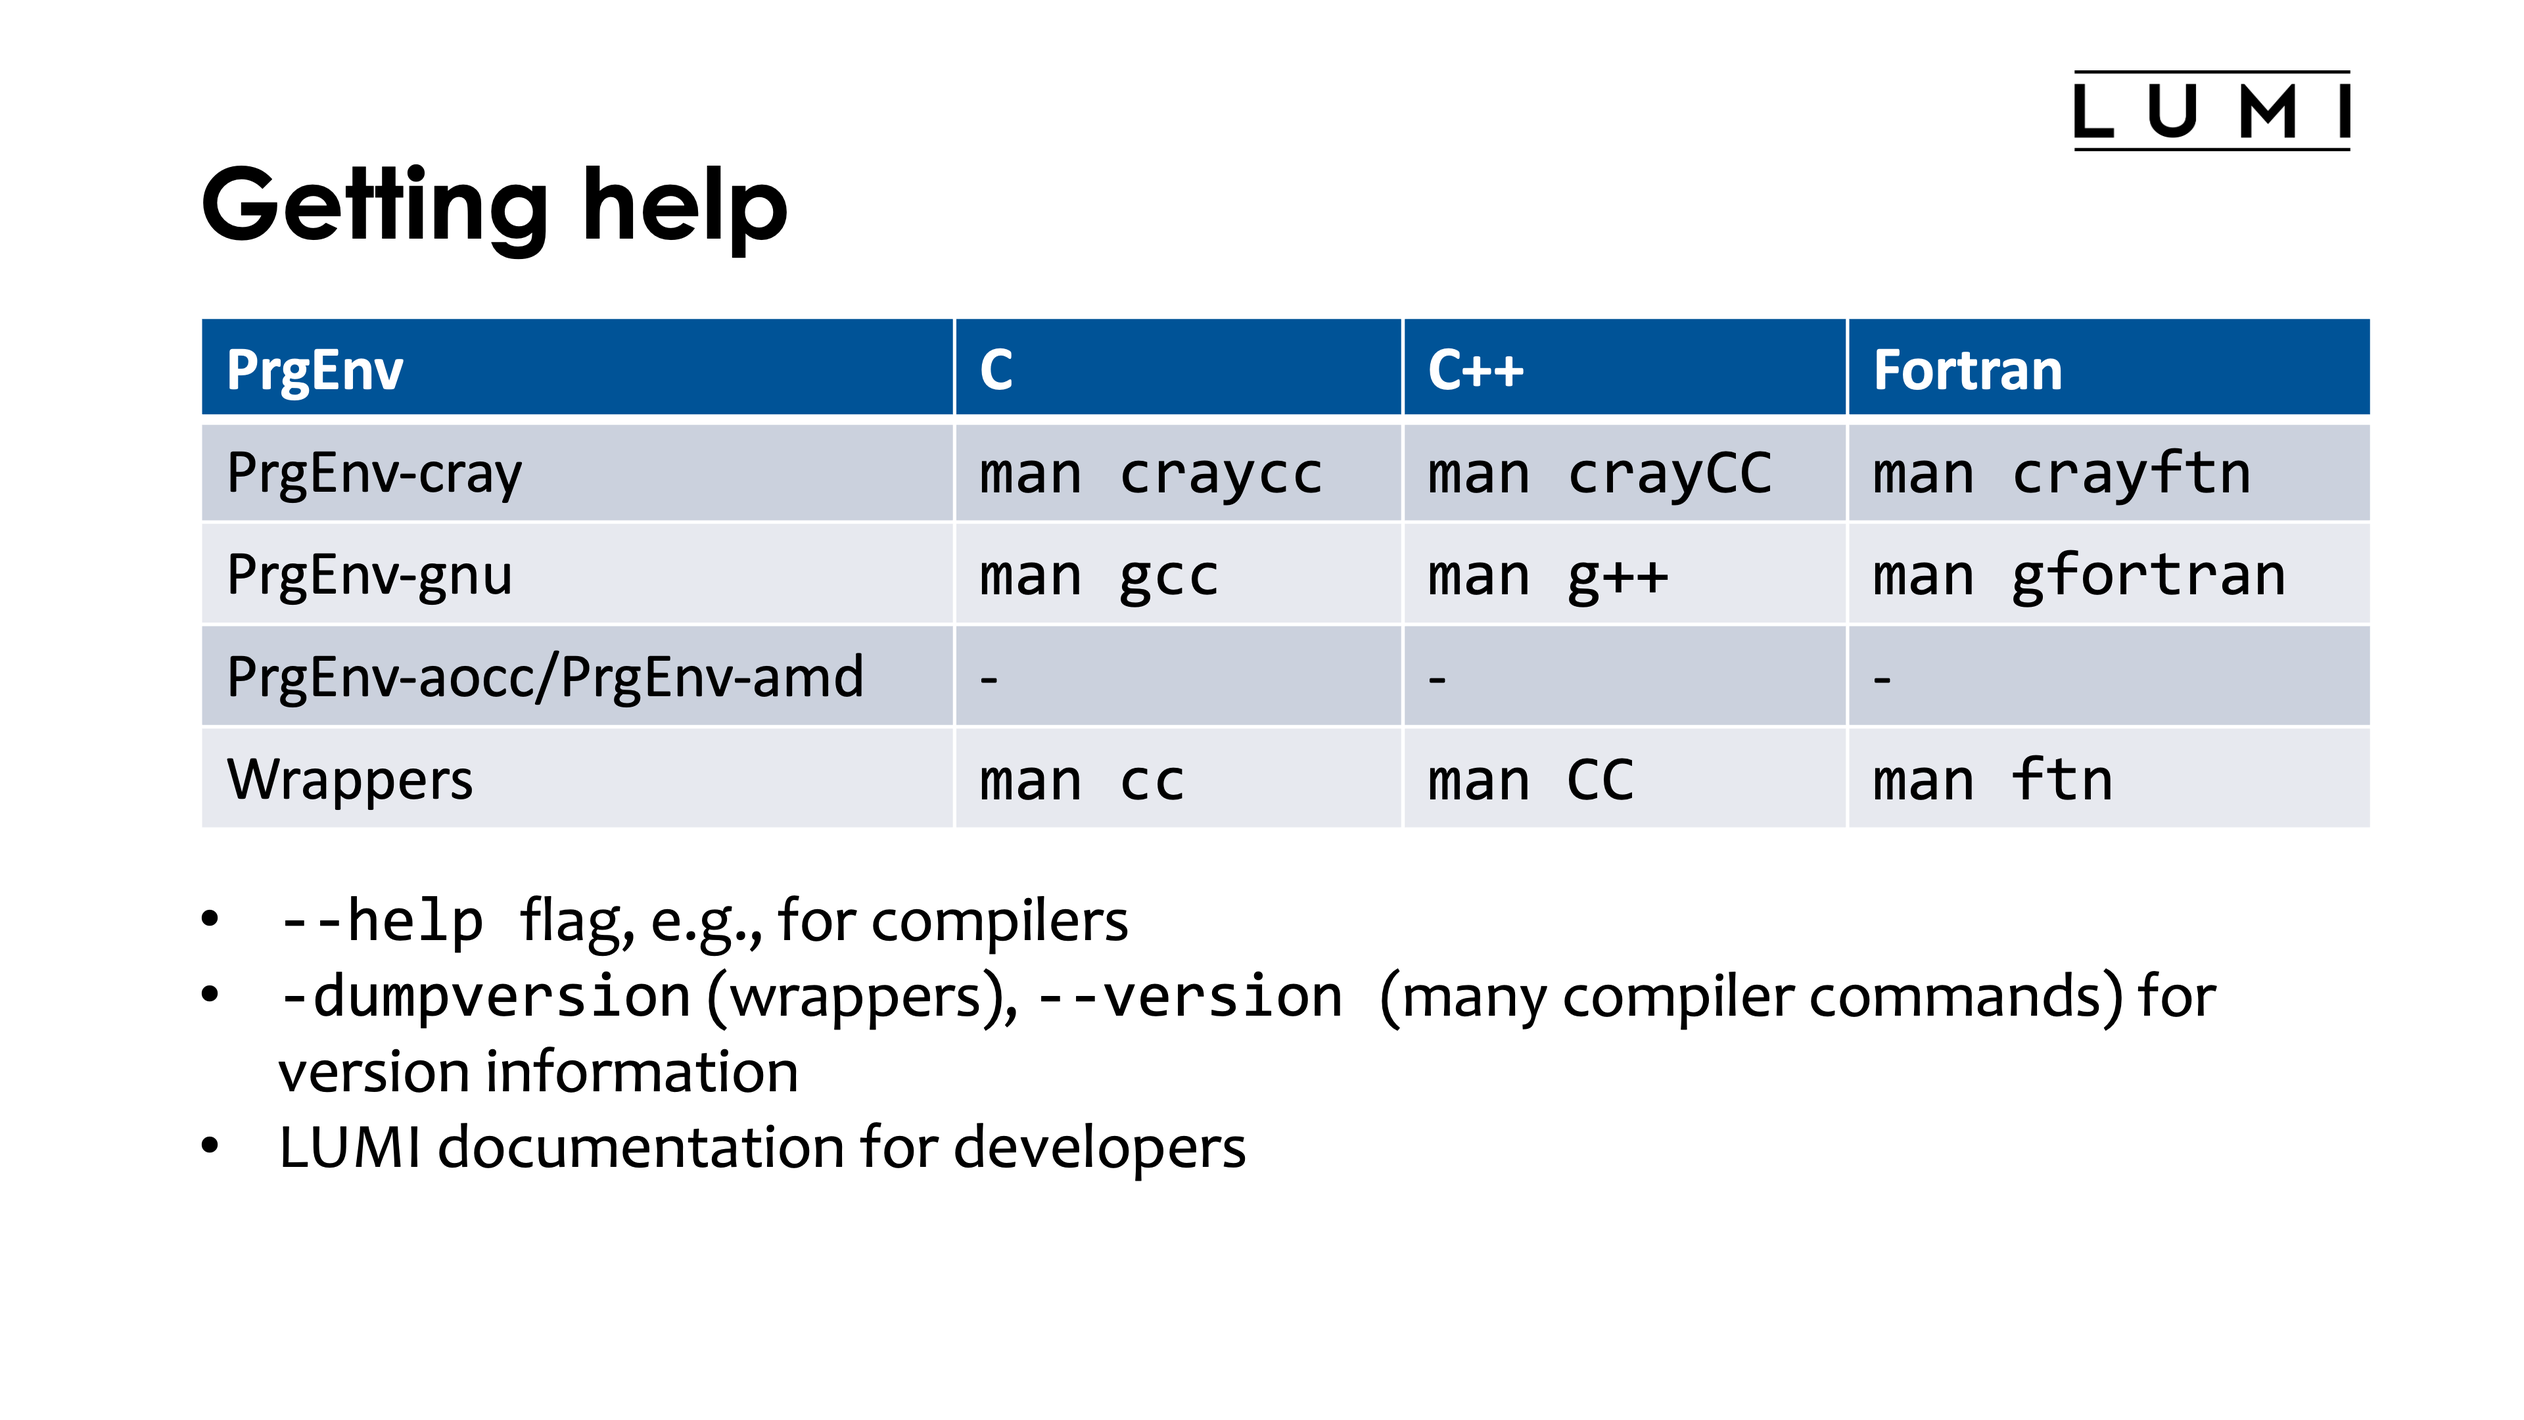
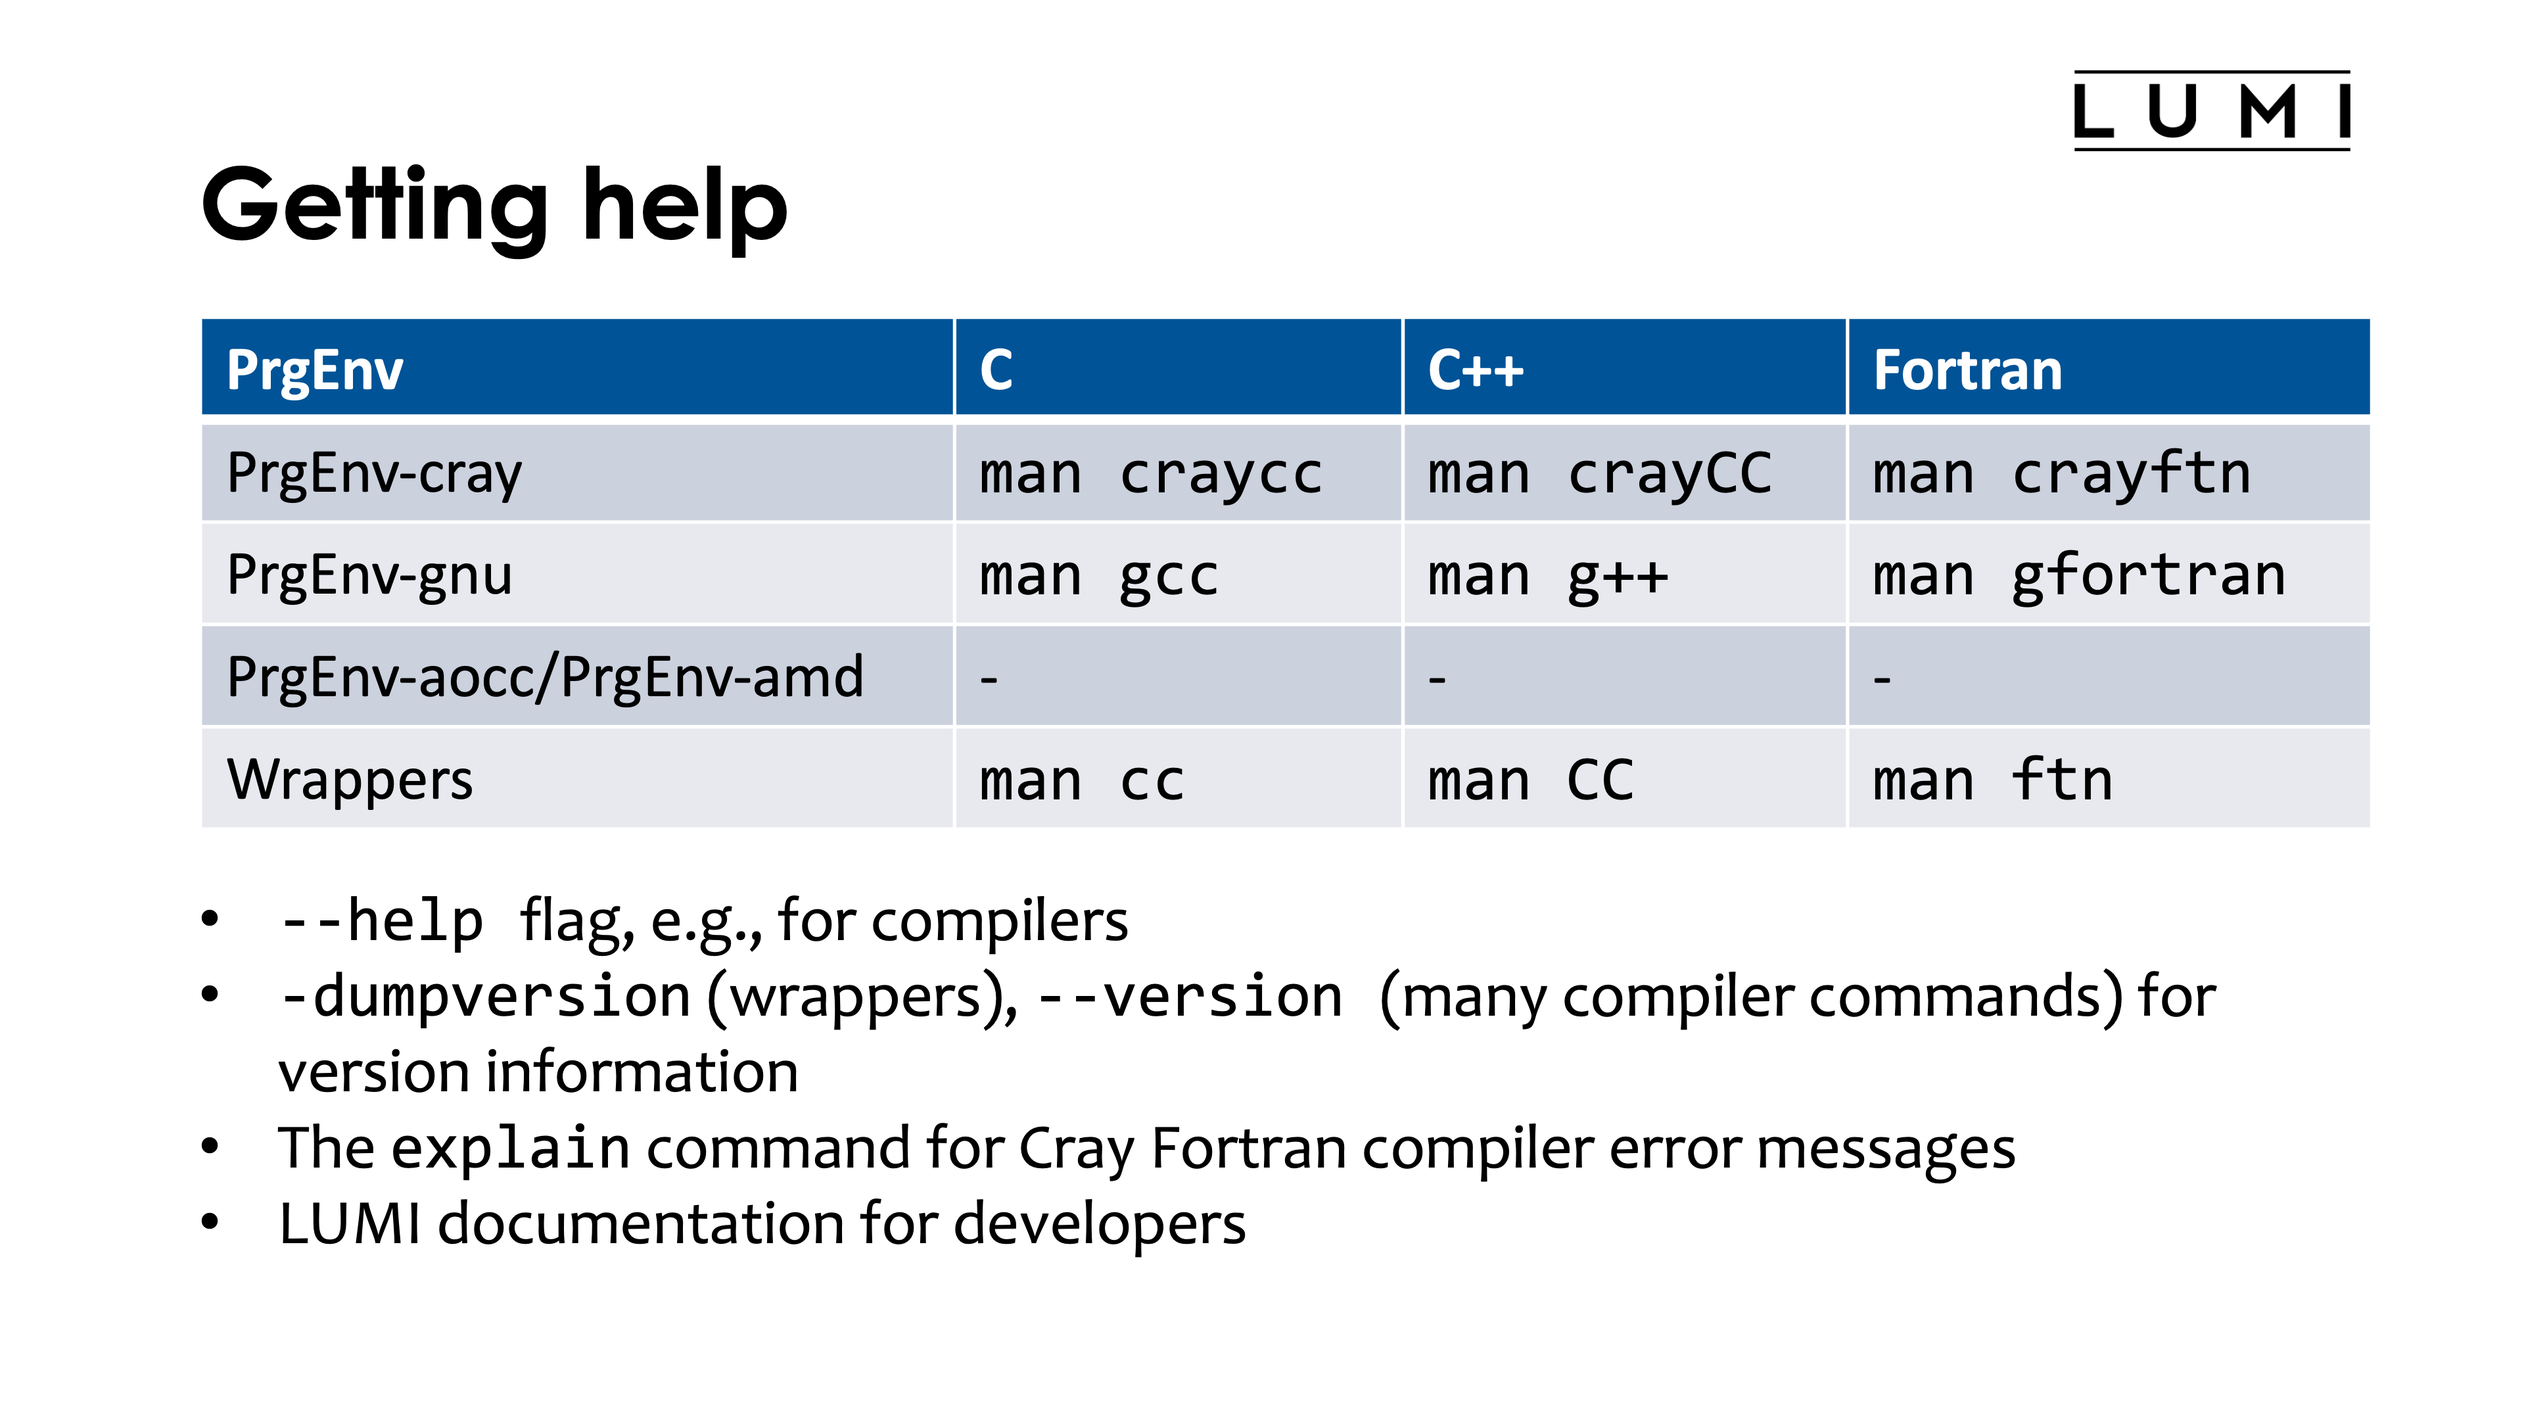
Corrections to section 2 of the course.

Changed region(s): [[0.125, 0.7755, 0.8125, 0.8995]]

diff --git a/docs/1day-20230509/02_CPE.md b/docs/1day-20230509/02_CPE.md
@@ -51,6 +51,11 @@ This also implies that some software that works perfectly fine on the login node
 work on the compute nodes. E.g., there is no `/run/user/$UID` directory and we have experienced
 that DBUS also does not work as one should expect.
 
+Large HPC clusters also have a small system image, so don't expect all the bells-and-whistles 
+from a Linux workstation to be present on a large supercomputer.
+Since LUMI compute nodes are diskless, the system image actually occupies RAM which is another
+reason to keep it small.
+
 
 ## Programming models
 
@@ -69,14 +74,15 @@ All compilers have some level of [OpenMP](https://www.openmp.org/) support,
 and two compilers support OpenMP offload to 
 the AMD GPUs, but again more about that later.
 
+[OpenACC](https://www.openacc.org/), the other directive-based model for GPU offloading, 
+is only supported in the Cray Fortran compiler. There is no commitment of neither HPE Cray
+or AMD to extend that support to C/C++ or other compilers, even though there is work going on
+in the LLVM community and several compilers on the system are based on LLVM.
+
 The other important programming model for AMD GPUs is [HIP](https://github.com/rocm-developer-tools/hip), 
 which is their alternative for the
 proprietary CUDA model. It does not support all CUDA features though (basically it is more CUDA 7 or 8 level) 
 and there is also no equivalent to CUDA Fortran.
-
-[OpenACC](https://www.openacc.org/) is only supported in the Cray Fortran compiler. There is no commitment of neither HPE Cray
-or AMD to extend that support to C/C++ or other compilers, even though there is work going on
-in the LLVM community and several compilers on the system are based on LLVM.
 
 The commitment to OpenCL is very unclear, and this actually holds for other GPU vendors also.
 
@@ -87,7 +93,7 @@ Python is of course pre-installed on the system but we do ask to use big Python 
 as Python puts a tremendous load on the file system. More about that later in this course.
 
 Some users also report some success in running [Julia](https://julialang.org/). We don't have full support though and have to
-depend on binaries as provided by [julialang.org](https://julialang.org/downloads/)]. The AMD GPUs are
+depend on binaries as provided by [julialang.org](https://julialang.org/downloads/). The AMD GPUs are
 not yet fully supported by Julia.
 
 It is important to realise that there is no CUDA on AMD GPUs and there will never be as this is a 
@@ -102,7 +108,7 @@ with NVIDIA GPUs but these nodes are meant for visualisation and not for compute
   ![Slide Development environment](img/LUMI-1day-20230509-02-CPE/Dia5.png){ loading=lazy }
 </figure>
 
-Long ago, Cray made designed its own processors and hence had to develop their own
+Long ago, Cray designed its own processors and hence had to develop their own
 compilers. They kept doing so, also when they moved to using more standard components,
 and had a lot of expertise in that field, especially when it comes to the needs of 
 scientific codes, programming models that are almost only used in scientific computing
@@ -138,6 +144,13 @@ Cray Debugging Support Tools that will not be discussed in this one-day course, 
 Python and R modules that both also provide some packages compiled with support for the
 Cray Scientific Libraries.
 
+Besides the tools provided by HPE Cray, several of the development tools from the
+ROCm stack are also available on the system while some others can be user-installed
+(and one of those, Omniperf, is not available due to security concerns).
+Furthermore there are some third party tools available on LUMI,
+including [Linaro Forge](https://www.linaroforge.com/) (previously ARM Forge) and
+[Vampir](https://vampir.eu/) and some open source profiling tools.
+
 We will now discuss some of these components in a little bit more detail, but refer
 to the 4-day trainings that we organise three times a year with HPE for more material.
 
@@ -150,12 +163,14 @@ to the 4-day trainings that we organise three times a year with HPE for more mat
 
 The Cray Compiling Environment are the default compilers on many Cray systems and on LUMI.
 These compilers are designed specifically for scientific software in an HPC environment.
-The current versions use an LLVM-based backend with extensions by HPE Cray for
+The current versions use are LLVM-based with extensions by HPE Cray for
 automatic vectorization and shared memory parallelization, technology that they
 have experience with since the late '70s or '80s.
 
 The compiler offers extensive standards support.
-The C and C++ compiler is essentially Clang with LLVM, and the version numbering of the CCE
+The C and C++ compiler is essentially their own build of Clang with LLVM with some of their
+optimisation plugins and OpenMP run-time.
+The version numbering of the CCE
 currently follows the major versions of the Clang compiler used. The support for C and C++
 language standards corresponds to that of Clang.
 The Fortran compiler uses a frontend developed by HPE Cray, but an LLVM-based backend. 
@@ -183,7 +198,7 @@ There are no plans to also support OpenACC in the C/C++ compiler.
 The CCE compilers also offer support for some PGAS (Partitioned Global Address Space) languages.
 UPC 1.2 is supported, as is Fortran 2008 coarray support. These implementations do not require a
 preprocessor that first translates the code to regular C or Fortran. There is also support
-for debugging with ARM Forge.
+for debugging with Linaro Forge.
 
 Lastly, there are also bindings for MPI.
 
@@ -240,7 +255,7 @@ ABI (Application Binary Interface) of that application which implies that in pri
 it should be possible to swap the MPI library of applications build with that ABI with
 the Cray MPICH library. Or in other words, if you can only get a binary distribution of
 an application and that application was build against an MPI library compatible with 
-the MPICN 3.4 ABI (which includes Intel MPI) it should be possible to exchange that
+the MPICH 3.4 ABI (which includes Intel MPI) it should be possible to exchange that
 library for the Cray one to have optimised communication on the Cray Slingshot interconnect.
 
 Cray MPI contains many tweaks specifically for Cray systems.
@@ -285,7 +300,7 @@ compatible with modulefiles for the old tool, but prefers modulefiles written in
 supported by the HPE Cray PE and is our choice on LUMI. The final implementation is a full TCL implementation developed 
 in France and also in use on some large systems in Europe.
 
-Fortunately the basic commands are large similar in those implementations, but what differs is
+Fortunately the basic commands are largely similar in those implementations, but what differs is
 the way to search for modules. We will now only discuss the basic commands, the more advanced ones
 will be discussed in the next session of this tutorial course.
 
@@ -340,7 +355,7 @@ flag is used. This is the case for:
     wrappers do the job as soon as the `cray-mpich` module is loaded.
 -   LibSci and FFTW are linked automatically if the corresponding modules are loaded. So no need
     to look, e.g., for the BLAS or LAPACK libraries: They will be offered to the linker if the
-    `cray--libsci` module is loaded (and it is an example of where the wrappers try to take the
+    `cray-libsci` module is loaded (and it is an example of where the wrappers try to take the
     right version based not only on compiler, but also on whether MPI is loaded or not and the
     OpenMP compiler flag).
 -   netCDF and HDF5
@@ -371,7 +386,11 @@ module load cpe/22.08
 ```
 Loading this module will also try to switch the already loaded PE modules to the versions from
 that release. This does not always work correctly, due to some bugs in most versions of this
-module and a limitation of Lmod. Executing the `module load` twice will fix this.
+module and a limitation of Lmod. Executing the `module load` twice will fix this:
+```
+module load cpe/22.08
+module load cpe/22.08
+```
 The module will also produce a warning when it is unloaded (which is also the case when you
 do a `module load` of `cpe` when one is already loaded, as it then first unloads the already
 loaded `cpe` module). The warning can be ignored, but keep in mind that what it says is true,
@@ -433,7 +452,7 @@ activate:
 
 | PrgEnv      | Description                               | Comiler module | Compilers                            |
 |-------------|-------------------------------------------|----------------|--------------------------------------|
-| PrgEnv-cray | Cray Compilation Environment              | `cce`          | `craycc`, `crayCC`, `crayftn`        |
+| PrgEnv-cray | Cray Compiling Environment                | `cce`          | `craycc`, `crayCC`, `crayftn`        |
 | PrgEnv-gnu  | GNU Compiler Collection                   | `gcc`          | `gcc`, `g++`, `gfortran`             |
 | PrgEnv-aocc | AMD Optimizing Compilers<br>(CPU only)    | `aocc`         | `clang`, `clang++`, `flang`          |
 | PrgEnv-amd  | AMD ROCm LLVM compilers <br>(GPU support) | `amd`          | `amdclang`, `amdclang++`, `amdflang` |
@@ -468,6 +487,26 @@ compiler.
 The wrappers also support the `-dumpversion` flag to show the version of the underlying compiler.
 Many other commands, including the actual compilers, use `--version` to show the version.
 
+For Cray Fortran compiler error messages, the `explain` command is also helpful. E.g.,
+
+```
+$ ftn
+ftn-2107 ftn: ERROR in command line
+  No valid filenames are specified on the command line.
+$ explain ftn-2107
+
+Error : No valid filenames are specified on the command line.
+
+At least one file name must appear on the command line, with any command-line
+options.  Verify that a file name was specified, and also check for an
+erroneous command-line option which may cause the file name to appear to be
+an argument to that option.
+```
+
+On older Cray systems this used to be a very useful command with more compilers but as 
+HPE Cray is using more and more open source components instead there are fewer commands
+that give additional documentation via the `explain` command.
+
 Lastly, there is also a lot of information in the
 ["Developing" section of the LUMI documentation](https://docs.lumi-supercomputer.eu/development/).
 
@@ -498,25 +537,6 @@ to find out where you can get more information about this environment variable i
 man -K FI_CXI_RX_MATCH_MODE
 ```
 
-For Cray Fortran compiler error messages, the `explain` command is also helpful. E.g.,
-
-```
-$ ftn
-ftn-2107 ftn: ERROR in command line
-  No valid filenames are specified on the command line.
-$ explain ftn-2107
-
-Error : No valid filenames are specified on the command line.
-
-At least one file name must appear on the command line, with any command-line
-options.  Verify that a file name was specified, and also check for an
-erroneous command-line option which may cause the file name to appear to be
-an argument to that option.
-```
-
-On older Cray systems this used to be a very useful command with more compilers but as 
-HPE Cray is using more and more open source components instead there are fewer commands
-that give additional documentation via the `explain` command.
 
 
 ## Other modules
@@ -541,7 +561,7 @@ Other modules that are relevant even to users who do not do development:
     other libraries of the HPE Cray PE, including mpi4py, NumPy, SciPy and pandas.
 -   R: `cray-R`
 
-The HPE ray PE also offers other modules for debugging, profiling, performance analysis, etc. that
+The HPE Cray PE also offers other modules for debugging, profiling, performance analysis, etc. that
 are not covered in this short version of the LUMI course. Many more are covered in the 4-day
 courses for developers that we organise several times per year with the help of HPE and AMD.
 
@@ -604,8 +624,8 @@ export LD_LIBRARY_PATH=$CRAY_LD_LIBRARY_PATH:$LD_LIBRARY_PATH
     versions, while in the second case it is taken from `/opt/cray/pe/mpich/8.1.18/ofi/gnu/9.1/lib/`
     which clearly is for a specific version of `cray-mpich`.
 
-We do provide an experimental module `lumi-CrayPath` that currently because of its experimental nature
-still needs to be installed by the user that tries to fix `LD_LIBRARY_PATH` in a way that unloading
+We do provide an experimental module `lumi-CrayPath` 
+that tries to fix `LD_LIBRARY_PATH` in a way that unloading
 the module fixes `LD_LIBRARY_PATH` again to the state before adding `CRAY_LD_LIBRARY_PATH` and that
 reloading the module adapts `LD_LIBRARY_PATH` to the current value of `CRAY_LD_LIBRARY_PATH`. Loading that
 module after loading all other modules should fix this issue for most if not all software.
